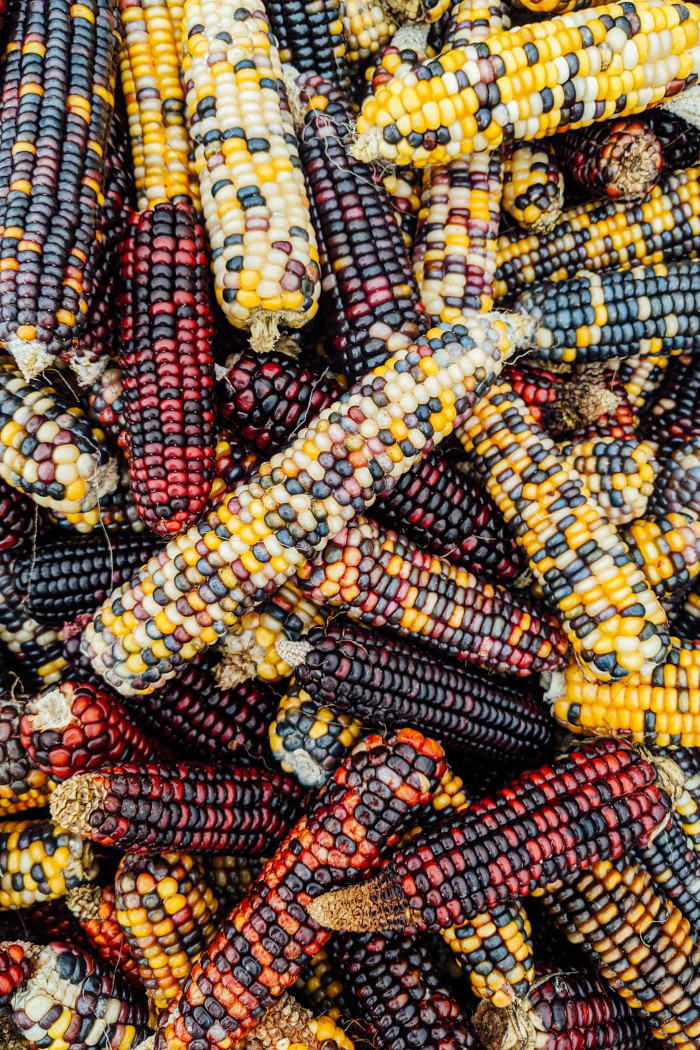
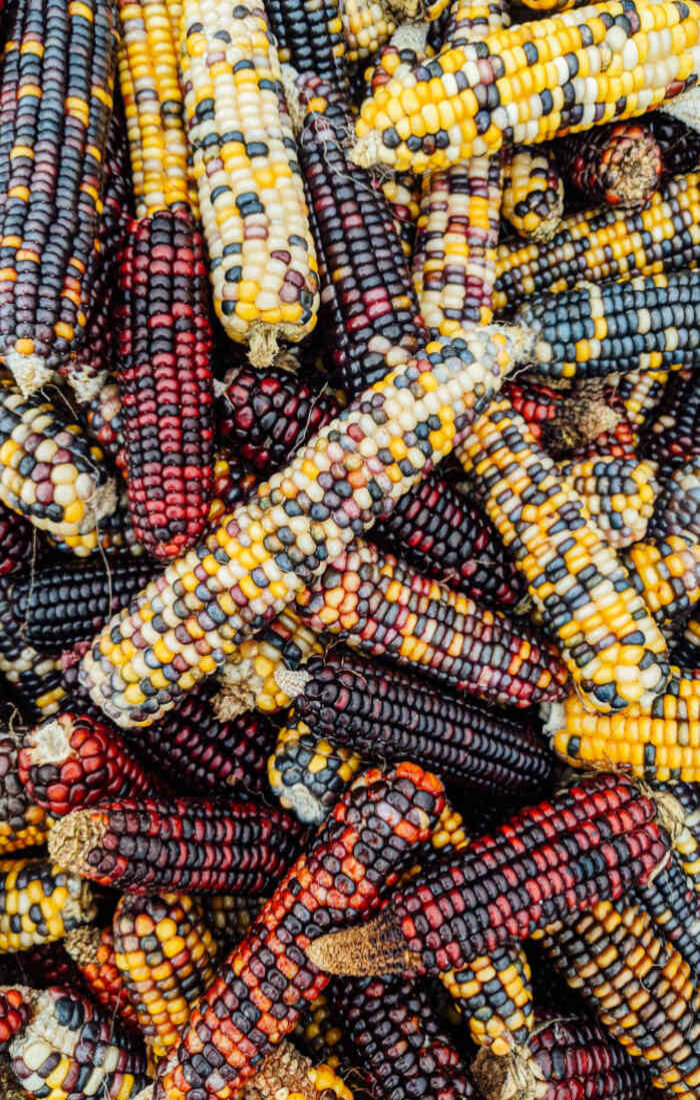
Add form structure

diff --git a/index.html b/index.html
@@ -19,7 +19,38 @@
                 more awsome corn pictures like this one to the left from the field straight to your email!!!
                 still wondering? click here(suppose to be some special effect when clicking)
             </div>
-            <form action="" method="post"></form>
+            <form action="" method="post">
+                <div class="form-row">
+                    <ul>
+                        <li><label for="first-name">FIRST NAME</label></li>
+                        <li><input type="text" name="first-name" id="first-name"></li>
+                    </ul>
+                    <ul>
+                        <li><label for="last-name">LAST NAME</label></li>
+                        <li><input type="text" name="last-name" id="last-name"></li>
+                    </ul>
+                </div>
+                <div class="form-row">
+                    <ul>
+                        <li><label for="email">EMAIL</label></li>
+                        <li><input type="email" name="email" id="email"></li>
+                    </ul>
+                    <ul>
+                        <li><label for="phone-number">PHONE NUMBER</label></li>
+                        <li><input type="tel" name="phone-number" id="phone-number"></li>
+                    </ul>
+                </div>
+                <div class="form-row">
+                    <ul>
+                        <li><label for="password">PASSWORD</label></li> 
+                        <li><input type="password" name="password" id="password"></li>
+                    </ul>
+                    <ul>
+                        <li><label for="confirm-password">CONFIRM PASSWORD</label></li>
+                        <li><input type="password" name="confirm-password" id="confirm-password"></li>
+                    </ul>
+                </div>
+            </form>
             <button type="submit"></button>
             <div id="log-in"></div>
         </div>

diff --git a/styles.css b/styles.css
@@ -3,6 +3,10 @@ body{
     padding: 0;
 }
 
+#container{
+    display: flex;
+}
+
 
 #side-bar{
     height: 100vh;
@@ -11,7 +15,7 @@ body{
     display: flex;
     align-items: center;
 
-    background-image: url(images/freckled-corn.jpg);
+    background-image: url(images/markus-winkler-Hmcpg4cnSRA-unsplash\ \(2\).jpg);
     background-size: cover;
 }
 
@@ -31,3 +35,6 @@ body{
     padding: 0 4rem;
 }
 
+.form-row{
+    display: flex;
+}
